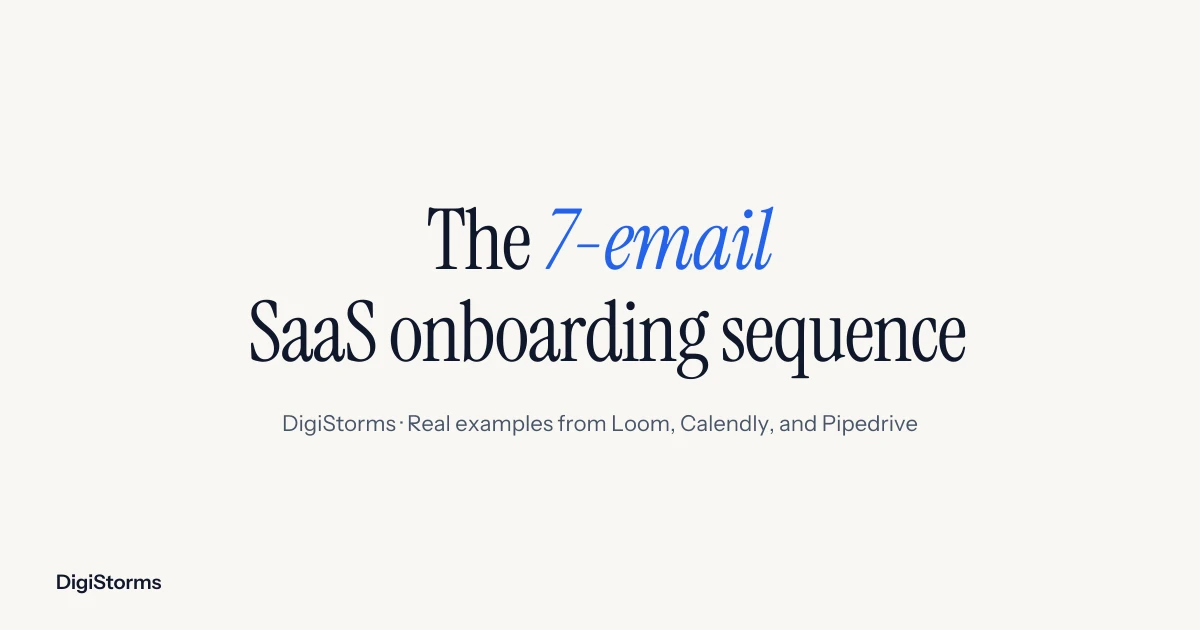
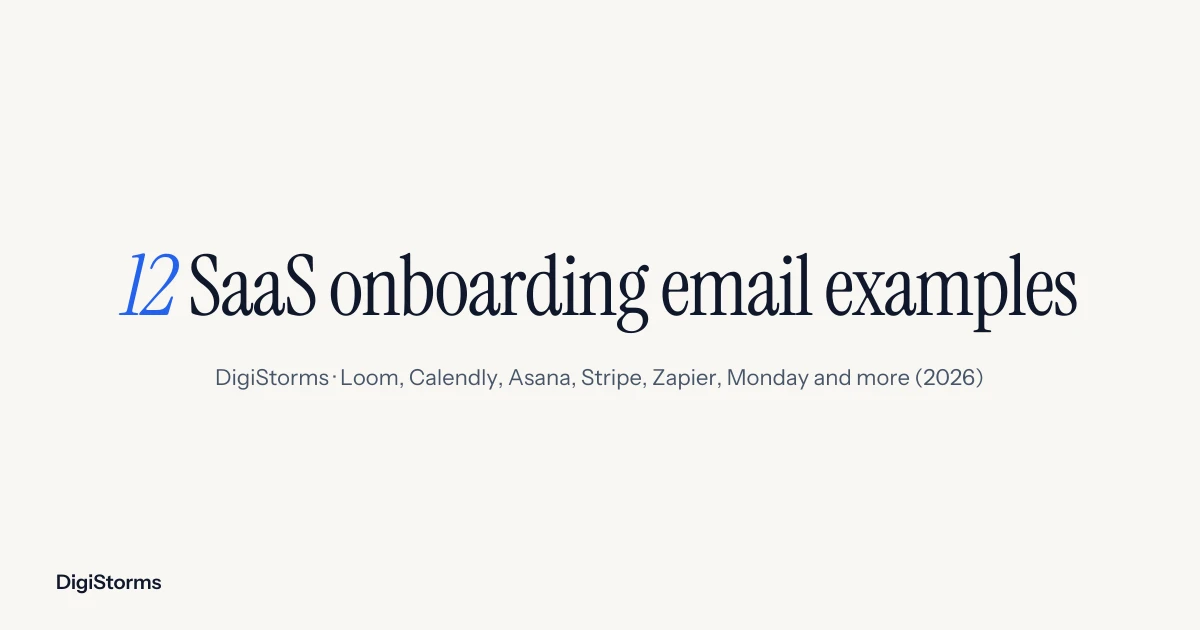
content: refresh "12 onboarding email examples from real SaaS brands (2026)"
Target keyword: onboarding email examples (vol 200, KD 3, TP 500 — stored metrics; Ahrefs MCP returned "Insufficient plan")
Library examples added: 12-example gallery (Calendly, Loom, Monday, Asana, Figma, Hunter, Miro, Stripe, Zapier, Make, Slack, Grammarly)

Retarget of existing /blog/saas-onboarding-email-sequence to "onboarding email examples"
(R2 in refresh queue). Adds TL;DR + 12-example gallery section while keeping
Loom/Calendly/Pipedrive deep-dives intact. Updates title, description, OG card,
and banner to match the new framing.

Changed region(s): [[0.0925, 0.3317, 0.8942, 0.6333], [0.2467, 0.6635, 0.7708, 0.6937]]

diff --git a/src/content/blog/saas-onboarding-email-sequence.md b/src/content/blog/saas-onboarding-email-sequence.md
@@ -1,15 +1,22 @@
 ---
-title: "The SaaS onboarding email sequence (7 emails, real examples)"
+title: "12 onboarding email examples from real SaaS brands (2026)"
 slug: "saas-onboarding-email-sequence"
-description: "The complete 7-email SaaS onboarding sequence, from signup to upgrade, with real examples from Loom, Calendly, and Pipedrive. Timing, copy, and when to switch to behavior-based triggers."
-shortDescription: "The 7-email SaaS onboarding sequence broken down, with real examples from Loom, Calendly, and Pipedrive."
-date: "2026-04-21"
-readTime: "11 min read"
-libraryTags: ["welcome-free-users", "setup-prompt", "milestone-reached", "trial-expiration-warning", "upgrade-cta"]
+description: "12 onboarding email examples from Loom, Calendly, Pipedrive, Asana, Stripe, Zapier, Monday, and more — with subject lines, timing, and the pattern behind each."
+shortDescription: "12 onboarding email examples from Loom, Calendly, Pipedrive, Asana, Stripe, Zapier, Monday and more."
+date: "2026-05-25"
+readTime: "13 min read"
+libraryTags: ["welcome-free-users", "welcome-paid-users", "setup-prompt", "trial-just-started", "milestone-reached", "upgrade-cta"]
 thumbnail: "/blog/saas-onboarding-email-sequence/banner.webp"
 heroImage: "/blog/saas-onboarding-email-sequence/banner.webp"
 ogImage: "/og/blog-saas-onboarding-email-sequence.webp"
 ---
+
+## TL;DR
+
+- The best onboarding email examples share three things: one job per email, behavior-triggered timing (not pure drip), and a single primary CTA tied to the next activation step.
+- Across 200+ onboarding emails in the [DigiStorms library](/library), the canonical sequence is 5–8 emails over 10–21 days: welcome → setup prompt → feature education → first-milestone celebration → trial-ending warning → upgrade CTA → post-trial nudge.
+- The 12 examples below — from **Loom, Calendly, Pipedrive, Asana, Stripe, Zapier, Slack, Monday, Hunter, Grammarly, Figma, and Miro** — show the pattern at every stage. Steal subject lines, copy structure, and trigger logic verbatim.
+
 
 You just signed someone up. You have about 14 days before they either activate, convert, or quietly disappear.
 
@@ -239,6 +246,106 @@ Across 200+ onboarding emails in the library, the subject-line patterns are rema
 - **Post-trial:** Soft language, workspace/feature name. "Digistorms has been downgraded to Loom Starter"
 
 More subject-line deep-dives in our [25 webinar follow up subject lines](/blog/webinar-follow-up-subject-lines) and [30 product launch email subject lines](/blog/product-launch-email-subject-lines) guides.
+
+## 12 onboarding email examples (quick-hit gallery)
+
+The Loom, Calendly, and Pipedrive deep-dives above show how a full sequence reads end-to-end. This section pulls 12 standout onboarding emails from across the library — different brands, different stages of the sequence, different jobs. Use these as a swipe file when you're writing your own.
+
+### 1. Calendly — Welcome (day 0)
+
+[![Calendly welcome email](/email-screenshots/welcome-free-users-from-calendly-01182024.png)](/library/email/welcome-free-users-from-calendly-01182024)
+
+**Subject line: Welcome to Calendly**
+
+Three lines of copy, one CTA ("Set up Calendly"), no feature list. Calendly knows the first action is connecting a calendar — everything else can wait. The pattern: cut the welcome email's word count in half, then in half again.
+
+### 2. Loom — Welcome to trial (day 0)
+
+[![Loom welcome email](/email-screenshots/welcome-free-users-from-loom-10212023.png)](/library/email/welcome-free-users-from-loom-10212023)
+
+**Subject line: Loom Business! Welcome to your trial 🔮**
+
+Names the plan explicitly ("Loom Business"), sets the 14-day expectation, single CTA ("Start recording"). The pattern: tell the user what they got, when it ends, and the one thing to do next — in that order.
+
+### 3. Monday — Welcome with team-invite nudge (day 0)
+
+[![Monday welcome email](/email-screenshots/welcome-free-users-from-monday-05122025.png)](/library/email/welcome-free-users-from-monday-05122025)
+
+**Subject line: Welcome to monday.com 🎉**
+
+Monday folds team-invite into the welcome email instead of saving it for email #2. For collaboration tools, the "invite a teammate" action IS the activation event — pulling it forward shortens time-to-value. The pattern: identify the action that turns "user" into "active workspace" and trigger it in email 1.
+
+### 4. Asana — Trial-starts-today welcome (day 0)
+
+[![Asana welcome email](/email-screenshots/welcome-free-users-from-asana-05122025.png)](/library/email/welcome-free-users-from-asana-05122025)
+
+**Subject line: Your Asana trial starts today**
+
+Asana opens with the trial countdown rather than a generic "welcome." Framing the trial as a clock that's already running creates mild urgency without being aggressive. The pattern: anchor the welcome on what the user just unlocked (a clock, a credit, an upgraded plan), not on the act of signing up.
+
+### 5. Figma — "Let's get you set up" welcome (day 0)
+
+[![Figma welcome email](/email-screenshots/welcome-free-users-from-figma-12222023.png)](/library/email/welcome-free-users-from-figma-12222023)
+
+**Subject line: Welcome to Figma! Let's get you set up.**
+
+The subject line itself is the CTA: "let's get you set up." Body copy doesn't oversell — it just lists the first three things to try, ranked. Figma trusts that designers will pick their own entry point if you give them options. The pattern: when your audience is technical, replace one CTA with a ranked checklist.
+
+### 6. Hunter.io — Personalized welcome (day 0)
+
+[![Hunter welcome email](/email-screenshots/welcome-free-users-from-hunterio-04102024.png)](/library/email/welcome-free-users-from-hunterio-04102024)
+
+**Subject line: Hey Jonathan, let's get started with Hunter**
+
+First-name personalization in the subject line plus a casual greeting ("Hey Jonathan") sets a 1:1 tone that doesn't read as marketing. For a tool like Hunter (sales prospecting), that founder-to-user voice matters more than polish. The pattern: match welcome-email tone to the job-to-be-done of the product — sales tools should sound like a salesperson, not a brand.
+
+### 7. Miro — Onboarding with a checklist (day 0)
+
+[![Miro welcome email](/email-screenshots/welcome-free-users-from-miro-10122024.png)](/library/email/welcome-free-users-from-miro-10122024)
+
+**Subject line: 👋 Welcome to Miro!**
+
+Miro embeds a 3-step interactive checklist directly in the email body — "create your first board," "invite teammates," "explore templates." Each step links into a deep route in the product. The pattern: when activation has multiple paths, give the user a literal checklist instead of forcing a single funnel.
+
+### 8. Stripe — Setup quickstarts (day 1–3)
+
+[![Stripe setup prompt email](/email-screenshots/setup-prompt-from-stripe-03132025.png)](/library/email/setup-prompt-from-stripe-03132025)
+
+**Subject line: Quickstart guides to get you up and running**
+
+Stripe segments by integration intent and sends a setup email with quickstarts matched to what the user said they're building (Payments, Connect, Billing, etc.). The pattern: ask one segmentation question at signup, then use it to route a tailored setup email — not a one-size-fits-all "here's how to use Stripe."
+
+### 9. Zapier — Welcome + first-Zap nudge (day 0–1)
+
+[![Zapier welcome email](/email-screenshots/welcome-free-users-from-zapier-02132024.png)](/library/email/welcome-free-users-from-zapier-02132024)
+
+**Subject line: Welcome to Zapier ⚡**
+
+Zapier's welcome email puts a "Make your first Zap" CTA above the fold and pairs it with three popular Zap templates the user can click straight into. The pattern: instead of teaching the abstraction (what a Zap is), let the user copy a working one — learning happens by doing.
+
+### 10. Make — Templates-driven feature usage nudge (day 2–4)
+
+[![Make feature usage nudge](/email-screenshots/feature-usage-nudge-from-make-05212025.png)](/library/email/feature-usage-nudge-from-make-05212025)
+
+**Subject line: 🟣 Automate Gmail and more: Pre-built templates inside**
+
+Make sends a "templates for popular integrations" email 2–3 days post-signup, pointing to copy-paste workflows for Gmail, Slack, and Notion. The subject line leads with the popular tool, not the product. The pattern: feature-education emails should headline the user's existing tool, not your product's feature name.
+
+### 11. Slack — Account-ready welcome (day 0)
+
+[![Slack welcome email](/email-screenshots/welcome-paid-users-from-slack-25122024.png)](/library/email/welcome-paid-users-from-slack-25122024)
+
+**Subject line: Jonathan started with Slack**
+
+Slack frames the welcome as a notification ("Jonathan started with Slack") rather than a marketing email. The visual treatment matches a workspace activity notification, so it slips past the "this is marketing" filter most users have on day 0. The pattern: in workspaces with multiple seats, make welcome emails look like product notifications, not campaigns.
+
+### 12. Grammarly — First-step milestone celebration (day 3–7, behavior-triggered)
+
+[![Grammarly milestone email](/email-screenshots/milestone-reached-from-grammarly-08082025.png)](/library/email/milestone-reached-from-grammarly-08082025)
+
+**Subject line: Congrats on taking the first step toward effective communication**
+
+Grammarly fires this email the moment the user installs the browser extension AND writes their first sentence with it active. The "Congrats" framing reinforces a habit that's still fragile. The pattern: behavior-triggered milestone emails work best on the *smallest* meaningful action — not "you've been a user for a week," but "you just did the thing."
 
 ## How to set up your own onboarding email sequence
 